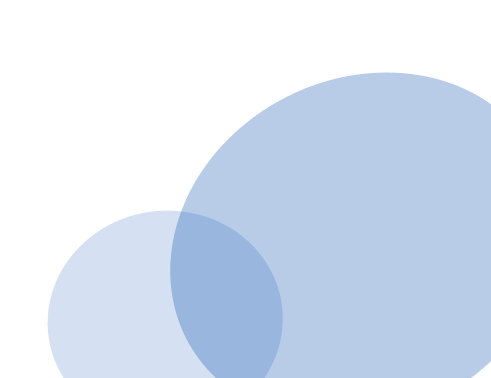
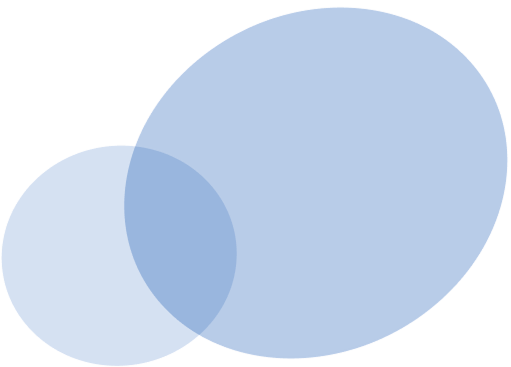
features section completed

diff --git a/src/features/Features.js b/src/features/Features.js
@@ -1,44 +1,50 @@
-import FeatureItem from "./FeatureItem.js";
+import FeatureItem from './FeatureItem.js';
 import Section from '../Section';
 import Content from '../Content';
 import Decoration from '../Decoration';
+import ContentHeading from '../ContentHeading.js';
+
+const features = [
+  { icon: 'user', text: 'Personalized Meal Plans', lineLength: 'medium' },
+  { icon: 'vector', text: 'Nutrition Breakdown', lineLength: 'long' },
+  { icon: 'align', text: 'Smart Health Tracking', lineLength: 'short' },
+  { icon: 'robot', text: 'AI-Driven Recommendations', lineLength: 'long' },
+  { icon: 'seedling', text: 'Lifestyle & Fitness Tips', lineLength: 'medium' },
+  { icon: 'bell', text: 'Daily Health Reminders', lineLength: 'long' },
+];
 
 export default function Features() {
-    const features = [
-        { icon: 'user', text: 'Personalized Meal Plans', lineLength: 'medium' },
-        { icon: 'vector', text: 'Nutrition Breakdown', lineLength: 'long' },
-        { icon: 'align', text: 'Smart Health Tracking', lineLength: 'short' },
-        { icon: 'robot', text: 'AI-Driven Recommendations', lineLength: 'long' },
-        { icon: 'seedling', text: 'Lifestyle & Fitness Tips', lineLength: 'medium' },
-        { icon: 'bell', text: 'Daily Health Reminders', lineLength: 'long' },
-    ];
+  return (
+    <Section className={'section-features'}>
+      <Decoration
+        src={'./images/feature/decoration-back.png'}
+        className={'decoration-back'}
+      />
+      <Content className={'features-content'}>
+        <Decoration
+          src={'./images/feature/white-circle.png'}
+          className={'circle_up'}
+        />
+        <ContentHeading title={'Key Features'} />
+        <Decoration
+          src={'./images/feature/white-circle.png'}
+          className={'circle_down'}
+        />
+      </Content>
 
-    return (
-        <Section className={'section-features'}>
-            <Content className={'features-content'}>
-                <div className="left">
-                    <Decoration src={'./images/feature/white-circle.png'} className={'circle_up'} />
-                    <div className="sidebar heading-secondary">
-                        <h2>Key Features</h2>
-                    </div>
-                    <Decoration src={'./images/feature/white-circle.png'} className={'circle_down'} />
-                </div>
-                
-                <div className="features-grid">
-                    {features.map((feature, index) => (
-                        <div key={index} className="feature-wrapper">
-                            <div className={`connector-line connector-line--${feature.lineLength}`}></div>
-                            <FeatureItem 
-                                icon={feature.icon} 
-                                text={feature.text}
-                            />
-                        </div>
-                    ))}
-                </div>
-            <Decoration src={'./circles.png'} className={'decoration-bottom'} /> 
-            {/*this img not match the design can you check it ? 
+      <div className="features-grid">
+        {features.map((feature, index) => (
+          <div key={index} className="feature-wrapper">
+            <div
+              className={`connector-line connector-line--${feature.lineLength}`}
+            ></div>
+            <FeatureItem icon={feature.icon} text={feature.text} />
+          </div>
+        ))}
+      </div>
+      <Decoration src={'./circles.png'} className={'decoration-bottom'} />
+      {/*this img not match the design can you check it ? 
             and there is another img missed "ضبف الصور صح يا استااااذ"*/}
-            </Content>
-        </Section>
-    )
+    </Section>
+  );
 }

diff --git a/src/index.css b/src/index.css
@@ -892,62 +892,57 @@ img {
 
 .section-features {
   /* padding-top: calc(10rem + 4.2rem); */
-  padding: 8rem 0;
+  height: 100vh;
+  position: relative;
+}
+
+.section-features .decoration-back {
+  position: absolute;
+  top: 0;
+  left: 0;
+}
+
+.section-features .container {
+  height: 100%;
+  width: 80%;
+  margin: 0 auto;
+  display: grid;
+  grid-template-columns: 15rem 1fr;
 }
 
 .section-features .content {
-  width: 80%;
-  margin: 0 auto;
-  display: flex;
-}
-
-.left {
-  left: 0;
-  top: 0;
-  height: 100%;
-  display: flex;
-  flex-direction: column;
-  justify-content: center;
-}
-
-.sidebar {
-  background-color: var(--color-secondary);
-  width: 13%;
   height: 100%;
   display: flex;
   align-items: center;
   justify-content: center;
-  padding: 2rem;
-  position: absolute;
-  left: 10rem;
-  top: 50%;
-  transform: translateY(-50%);
+  position: relative;
+  background-color: var(--color-secondary);
+  overflow: hidden;
 }
-.sidebar h2 {
-  writing-mode: vertical-lr;
-  transform: rotate(180deg);
-  font-size: 5rem;
-  letter-spacing: 3px;
+
+.section-features .heading-secondary {
+  margin-bottom: 0;
+  transform: rotate(-90deg);
+  text-wrap-mode: nowrap;
 }
 
 .circle_up,
 .circle_down {
-  width: 27rem;
+  height: 18rem;
+  height: 18rem;
+  width: auto;
   z-index: -1;
+  position: absolute;
 }
 .circle_up {
-  top: 70%;
-  margin-left: -19rem;
-  margin-top: -8rem;
-  transform: translateY(-70%);
-  transform: translateX(14%);
+  position: absolute;
+  top: 0;
+
   z-index: 1;
 }
 .circle_down {
-  margin: 60rem 0 -8rem -20rem;
-  transform: translateY(100%);
-  /* transform: translateX(-20%); */
-  transform: rotate(180deg);
+  position: absolute;
+  bottom: 0;
   z-index: 1;
 }
 

diff --git a/src/ContentHeading.js b/src/ContentHeading.js
@@ -1,4 +1,8 @@
-export default function ContentHeading({ isHero, title, subheading }) {
+export default function ContentHeading({
+  isHero = false,
+  title,
+  subheading = false,
+}) {
   return (
     <>
       {isHero ? (
@@ -6,7 +10,9 @@ export default function ContentHeading({ isHero, title, subheading }) {
       ) : (
         <h2 className="heading-secondary">{title}</h2>
       )}
-      <span className="subheading margin-bot-lrg">{subheading}</span>
+      {subheading && (
+        <span className="subheading margin-bot-lrg">{subheading}</span>
+      )}
     </>
   );
 }
